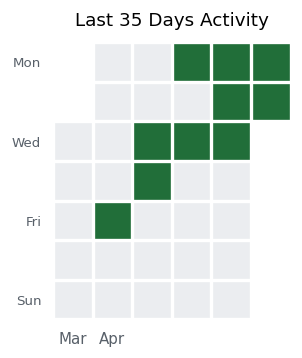
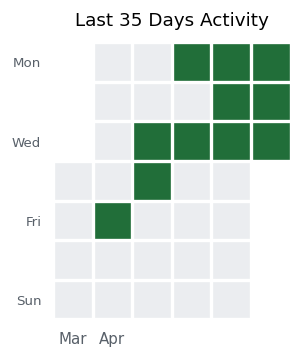
Lab Entry: 2026-04-29

Changed region(s): [[0.8344, 0.338, 0.9834, 0.4609]]

diff --git a/README.md b/README.md
@@ -1,7 +1,7 @@
-# 🏃 平均週 2.7 回でつーがく中！
+# 🏃 平均週 2.9 回でつーがく中！
 <p align="center">
   <img src="./monthly_report.png" alt="Attendance Calendar">
 </p>
 
 ___
-*最終更新: 2026-04-28*
+*最終更新: 2026-04-29*
